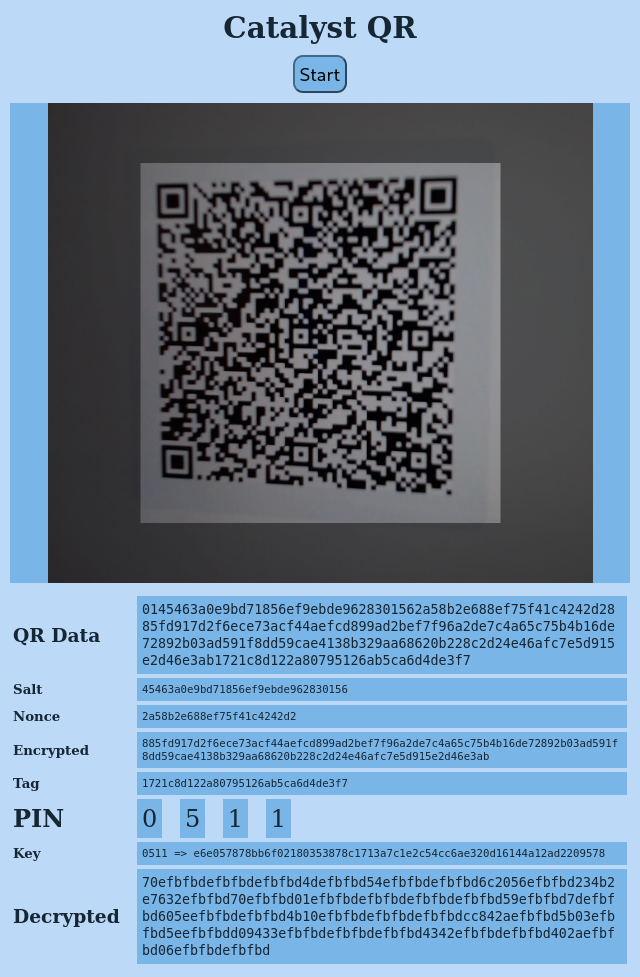
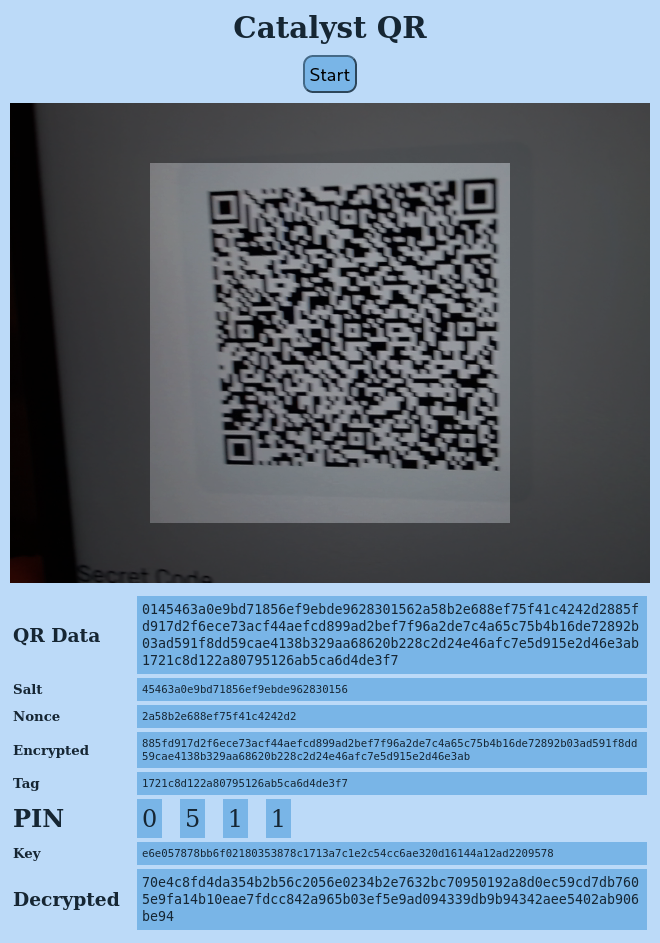
Put derivation and decryption in a worker

diff --git a/index.js b/index.js
@@ -1,11 +1,3 @@
-import { Buffer } from 'buffer'
-import { pbkdf2Sync } from 'pbkdf2'
-import { createDecipher } from 'chacha-js'
-
-const button = document.getElementById('button')
-button.innerHTML = "Start"
-button.onclick = startVideo
-
 const container = document.getElementById('container')
 const canvas = document.getElementById('canvas')
 const context = canvas.getContext('2d')
@@ -22,19 +14,25 @@ const fourEl = document.getElementById('four')
 const keyEl = document.getElementById('key')
 const decryptedEl = document.getElementById('decrypted')
 
-let video = null
+const button = document.getElementById('button')
+button.innerHTML = "Start"
+button.onclick = startVideo
+
 let qrworker = null
+let video = null
 
 function startVideo() {
     button.innerHTML = "Stop"
     button.onclick = stopVideo
-    video = document.createElement('video')
+
     qrworker = new Worker(new URL('./qrworker.js', import.meta.url),
                           {type: 'module'})
     qrworker.onmessage = (message) => {
         stopVideo()
         startDecrypt(message.data)
     }
+
+    video = document.createElement('video')
     navigator.mediaDevices.getUserMedia({
         audio: false,
         video: {facingMode: 'environment'}
@@ -42,6 +40,7 @@ function startVideo() {
         video.srcObject = stream
         video.setAttribute('playsinline', 'true')
         video.play()
+
         requestAnimationFrame(tick)
     })
 }
@@ -51,6 +50,7 @@ function stopVideo() {
     video.pause()
     video.srcObject.getVideoTracks().forEach(track => track.stop())
     video.srcObject = null
+
     button.innerHTML = "Start"
     button.onclick = startVideo
 }
@@ -76,35 +76,39 @@ function tick(time) {
             qrworker.postMessage({
                 data: imageData.data,
                 width: imageData.width,
-                height: imageData.height
+                height: imageData.height,
             })
         }
     }
+
     requestAnimationFrame(tick)
 }
 
-let cancel = false
-
-let salt = null
-let nonce = null
-let encrypted = null
-let tag = null
-let key = null
-
-let one = 0
-let two = 0
-let three = 0
-var four = 0
+let pinworker = null
 
 function startDecrypt(qrdata) {
     button.innerHTML = "Stop"
     button.onclick = stopDecrypt
 
-    cancel = false
+    pinworker = new Worker(new URL('./pinworker.js', import.meta.url),
+                           {type: 'module'})
+    pinworker.onmessage = (message) => {
+        const {pin, key, decrypted} = message.data
+
+        if (decrypted) {
+            stopDecrypt()
+            decryptedEl.innerHTML = decrypted
+        }
+
+        oneEl.innerHTML = pin[0]
+        twoEl.innerHTML = pin[1]
+        threeEl.innerHTML = pin[2]
+        fourEl.innerHTML = pin[3]
+        keyEl.innerHTML = key
+    }
 
     qrdataEl.innerHTML = qrdata
-    const raw = new Buffer.from(qrdata, 'hex')
-    if (raw.length !== 109) {
+    if (qrdata.length !== 218) {
         const message = "&lt;QR data has wrong length!&gt;"
         saltEl.innerHTML = message
         nonceEl.innerHTML = message
@@ -113,8 +117,7 @@ function startDecrypt(qrdata) {
         stopDecrypt()
         return
     }
-    const protocol = raw[0]
-    if (protocol !== 1) {
+    if (qrdata.substring(0, 2) !== '01') {
         const message = "&lt;Invalid protocol in QR data!&gt;"
         saltEl.innerHTML = message
         nonceEl.innerHTML = message
@@ -123,100 +126,33 @@ function startDecrypt(qrdata) {
         stopDecrypt()
         return
     }
-    salt = raw.subarray(1, 17)
-    saltEl.innerHTML = salt.toString('hex')
-    nonce = raw.subarray(17, 29)
-    nonceEl.innerHTML = nonce.toString('hex')
-    encrypted = raw.subarray(29, 93)
-    encryptedEl.innerHTML = encrypted.toString('hex')
-    tag = raw.subarray(93, 109)
-    tagEl.innerHTML = tag.toString('hex')
+    const salt = qrdata.substring(2, 34)
+    saltEl.innerHTML = salt
+    const nonce = qrdata.substring(34, 58)
+    nonceEl.innerHTML = nonce
+    const encrypted = qrdata.substring(58, 186)
+    encryptedEl.innerHTML = encrypted
+    const tag = qrdata.substring(186, 218)
+    tagEl.innerHTML = tag
 
-    one = 0
-    oneEl.innerHTML = one.toString()
-    two = 0
-    twoEl.innerHTML = two.toString()
-    three = 0
-    threeEl.innerHTML = three.toString()
-    four = 0
-    fourEl.innerHTML = four.toString()
+    oneEl.innerHTML = "0"
+    twoEl.innerHTML = "0"
+    threeEl.innerHTML = "0"
+    fourEl.innerHTML = "0"
     keyEl.innerHTML = "&lt;No data from derivation&gt;"
     decryptedEl.innerHTML = "&lt;No data from decryption&gt;"
 
-    requestAnimationFrame(derive)
-}
-
-function derive(time) {
-    if (cancel) {
-        return
-    }
-
-    const pin = new Buffer.from([one, two, three, four])
-    key = pbkdf2Sync(pin, salt, 12983, 32, 'sha512')
-    keyEl.innerHTML = one.toString() + two.toString() + three.toString() +
-                      four.toString() + ' => ' + key.toString('hex')
-
-    requestAnimationFrame(decrypt)
-}
-
-function decrypt(time) {
-    if (cancel) {
-        return
-    }
-
-    const decipher = createDecipher(key, nonce)
-    decipher.setAuthTag(tag)
-    try {
-        let decryptedRaw = decipher.update(encrypted)
-        decryptedRaw += decipher.final()
-        const decrypted = new Buffer.from(decryptedRaw)
-        decryptedEl.innerHTML = decrypted.toString('hex')
-        stopDecrypt()
-        return
-    } catch(e) {
-    }
-
-    decryptedEl.innerHTML = "&lt;No data from decryption&gt;"
-    requestAnimationFrame(increment)
-}
-
-function increment(time) {
-    if (cancel) {
-        return
-    }
-
-    four += 1
-    if (four > 9) {
-        four = 0
-        three += 1
-    }
-    if (three > 9) {
-        three = 0
-        two += 1
-    }
-    if (two > 9) {
-        two = 0
-        one += 1
-    }
-    if (one > 9) {
-        one = 9
-        two = 9
-        three = 9
-        four = 9
-        stopDecrypt()
-        return
-    }
-
-    oneEl.innerHTML = one.toString()
-    twoEl.innerHTML = two.toString()
-    threeEl.innerHTML = three.toString()
-    fourEl.innerHTML = four.toString()
-
-    requestAnimationFrame(derive)
+    pinworker.postMessage({
+        salt: salt,
+        nonce: nonce,
+        encrypted: encrypted,
+        tag: tag,
+    })
 }
 
 function stopDecrypt() {
-    cancel = true
+    pinworker.terminate()
+
     button.innerHTML = "Start"
     button.onclick = startVideo
 }

diff --git a/pinworker.js b/pinworker.js
@@ -1,0 +1,57 @@
+import { Buffer } from 'buffer'
+import { pbkdf2 } from 'pbkdf2'
+import { createDecipher } from 'chacha-js'
+
+(async () => {
+    self.addEventListener('message', message => {
+        const {salt, nonce, encrypted, tag} = message.data
+        const saltBuf = Buffer.from(salt, 'hex')
+        const nonceBuf = Buffer.from(nonce, 'hex')
+        const encryptedBuf = Buffer.from(encrypted, 'hex')
+        const tagBuf = Buffer.from(tag, 'hex')
+
+        let success = false
+        for (let one = 0; one < 10; one++) {
+            for (let two = 0; two < 10; two++) {
+                for (let three = 0; three < 10; three++) {
+                    for (let four = 0; four < 10; four++) {
+                        const pinString = one.toString() + two.toString() +
+                                          three.toString() + four.toString()
+                        postMessage({
+                            pin: pinString,
+                            key: "Test",
+                            decrypted: null,
+                        })
+                        const pin = new Buffer.from([one, two, three, four])
+                        pbkdf2(pin, saltBuf, 12983, 32, 'sha512',
+                               (err, key) => {
+                            if (!err) {
+                                const dec = createDecipher(key, nonceBuf)
+                                dec.setAuthTag(tagBuf)
+                                try {
+                                    let decrypted = dec.update(encryptedBuf,
+                                                               '', 'hex')
+                                    decrypted += dec.final('hex')
+                                    success = true
+                                    postMessage({
+                                        pin: pinString,
+                                        key: key.toString('hex'),
+                                        decrypted: decrypted,
+                                    })
+                                } catch(e) {
+                                    if (!success) {
+                                        postMessage({
+                                            pin: pinString,
+                                            key: key.toString('hex'),
+                                            decrypted: null,
+                                        })
+                                    }
+                                }
+                            }
+                        })
+                    }
+                }
+            }
+        }
+    })
+})()

diff --git a/qrworker.js b/qrworker.js
@@ -3,7 +3,7 @@ import Koder from '@maslick/koder'
 (async () => {
     const koder = await new Koder().initialized
     self.addEventListener('message', message => {
-        const {data, width, height} = message.data;
+        const {data, width, height} = message.data
         if (!data) {
             return
         }

diff --git a/README.md b/README.md
@@ -7,15 +7,6 @@ have forgotten it.
 (It does that on your device in your browser.
 No data are transmitted to any server.)
 
-The app is a bit slow, so be prepared that it needs up to ca. 2 hours to
-scan all possible PINs (if your PIN comes early, has a low number in the
-first digits, you are lucky).
-You can see the progress that it makes.
-
-I'll have to check if there are more efficient Javascript crypto libraries
-that could speed that up, but it works, so I wanted to get it out while
-there is still some time in the current fund.
-
 ## Example
 In the first screenshot, we see the app having scanned an old, unused
 Catalyst QR from me and broken the PIN `0511` from it.
@@ -30,15 +21,13 @@ shown.
 You can see that what Yoroi called the “secret code” is exactly the
 encrypted content of the QR code.
 
-Strangely enough, the bytes that it decrypted are totally different than
-what `catalyst-toolbox` decrypts:
+The decrypted hex string is exactly the same that is also given by
+`catalyst-toolbox` when decoding the same QR code:
 ```shellsession
 $ catalyst-toolbox qr-code decode -i example/yoroi.png -p 0511 img | bech32
[2 lines of base64/hex data omitted]
 ```
-Should be investigated in future iterations, but it does get the PIN and
-that was the goal.
 
 ## Context
 Cardano's [Project Catalyst](https://docs.projectcatalyst.io/) uses a QR
